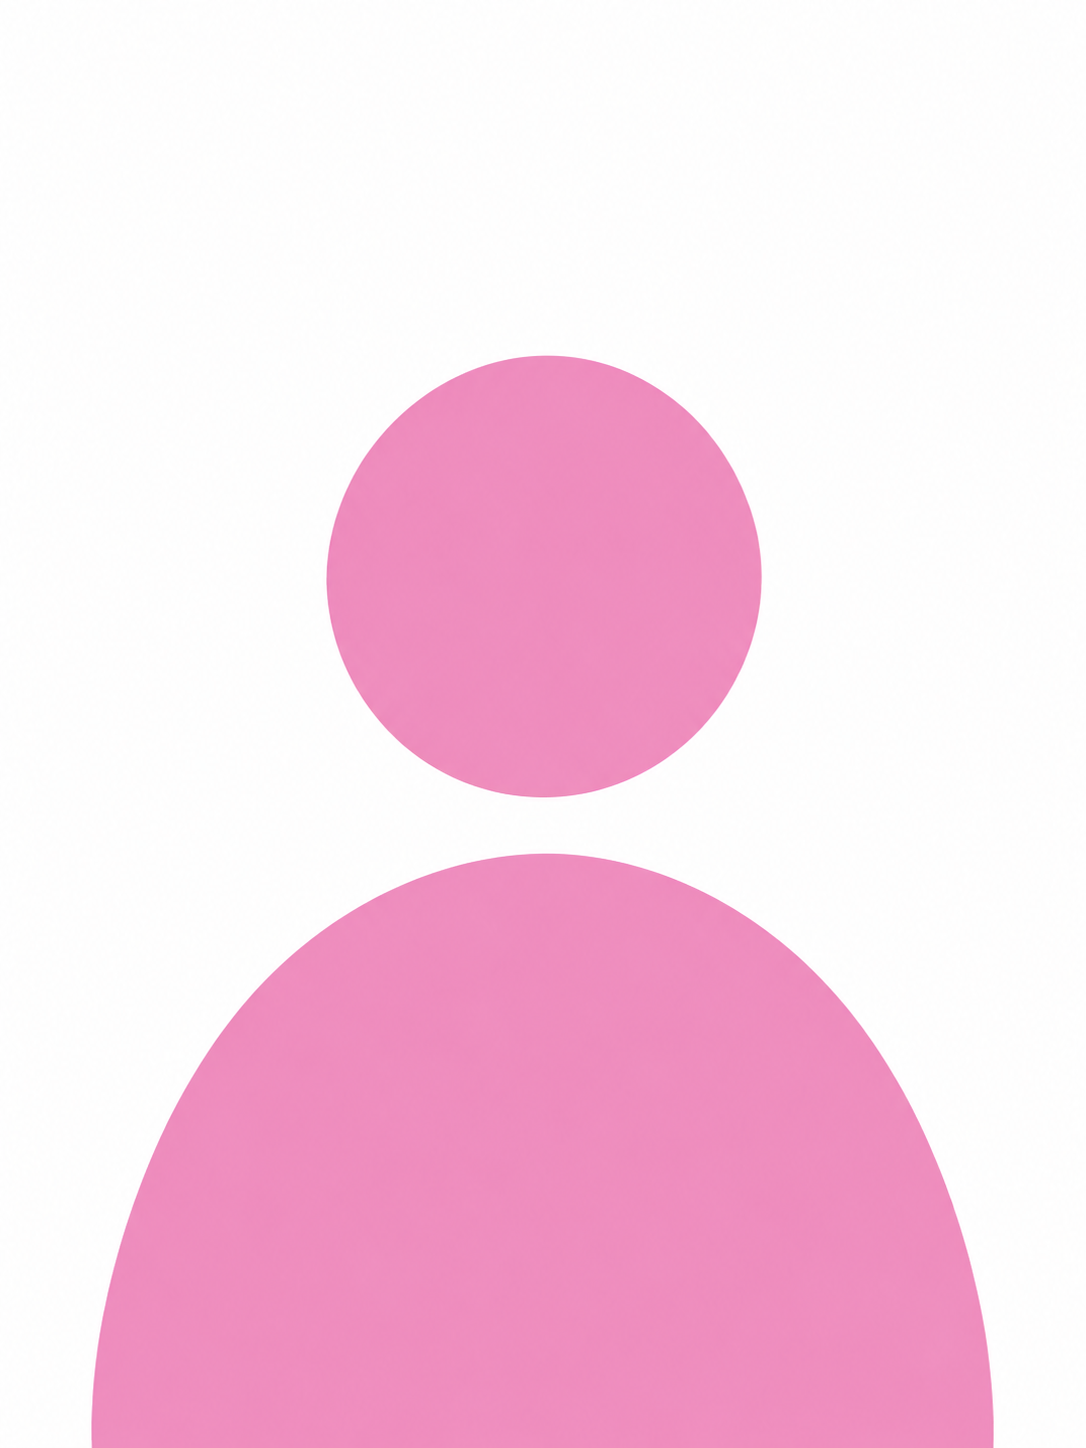
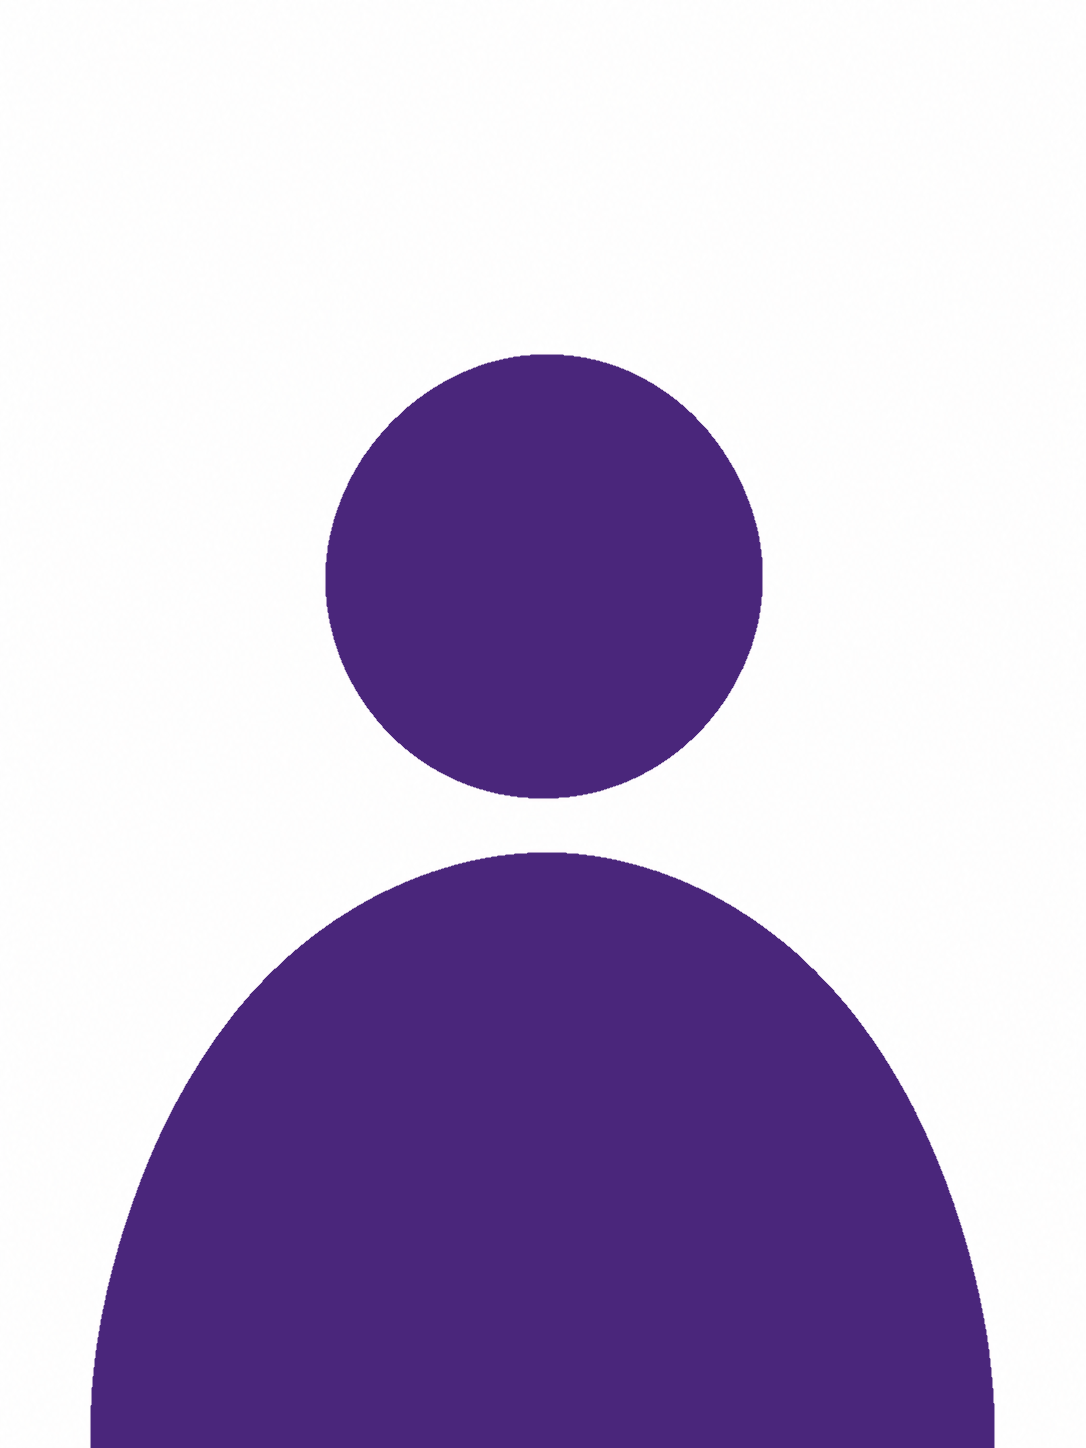
добавление и измения на вкладке О нас

diff --git a/about.html b/about.html
@@ -198,6 +198,14 @@
                         </p>
                     </div>
 
+                    <div class="creator-card">
+                        <img src="img/creators-photo/khramtsov yaroslav.png" alt="Имя Фамилия">
+                        <p class="creator-name">
+                            <span>Ярослав</span>
+                            <span>Храмцов</span>
+                        </p>
+                    </div>
+
                     <!--  
                     <div class="creator-card">
                         <img src="img/creator-3.jpg" alt="Имя Фамилия">

diff --git a/eng-version/about-eng.html b/eng-version/about-eng.html
@@ -197,6 +197,14 @@
                         </p>
                     </div>
 
+                    <div class="creator-card">
+                        <img src="../img/creators-photo/khramtsov yaroslav.png" alt="Имя Фамилия">
+                        <p class="creator-name">
+                                <span>Yaroslav</span>
+                                <span>Khramtsov</span>
+                        </p>
+                    </div>
+
                     <!--  
                     <div class="creator-card">
                         <img src="img/creator-3.jpg" alt="Имя Фамилия">
